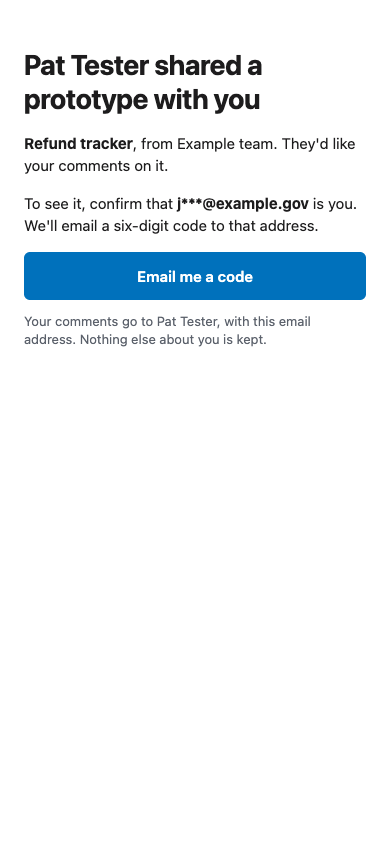
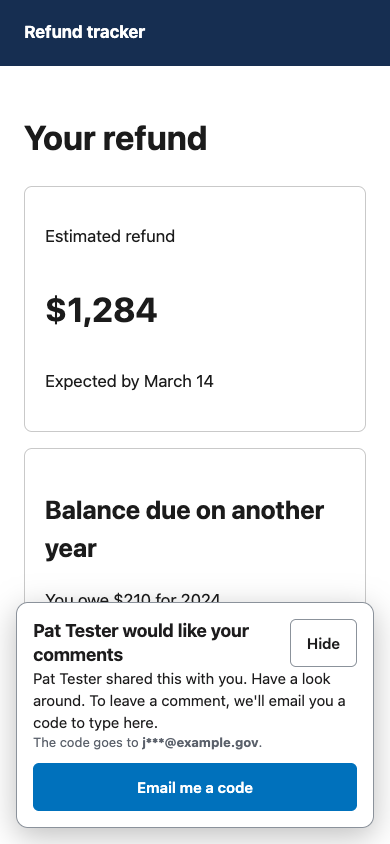
Review links open on the prototype at once; the code is for commenting and joining
No code wall. Opening a review link shows the prototype full screen straight
away; a box in the corner offers the emailed code, which turns on commenting
and, for someone an owner invited, offers Join <team> on the same page. The
invite is never in the message or the email, and joining after the code puts
the confirmed work email on the account without a second code.

diff --git a/app/src/components/PrototypeReviewSheet.tsx b/app/src/components/PrototypeReviewSheet.tsx
@@ -83,8 +83,8 @@ export function PrototypeReviewSheet({ account, chatId = "", projectId, title, o
         <ScrollView keyboardShouldPersistTaps="handled" contentContainerStyle={styles.content}>
           <Text accessibilityRole="header" style={styles.title}>{ofApp ? "Share with a reviewer" : "Share with a business owner"}</Text>
           <Text style={styles.body}>{ofApp
-            ? `They get a link to "${title}" by email. After confirming a code sent to that address, they can use the app in their browser, with its sample data, and right-click anywhere on it to leave a comment. Each comment comes back to this screen, for you to decide what to do with.`
-            : `They get a link to "${title}" by email. After confirming a code sent to that address, they can look at the prototype and right-click anywhere on it to leave a comment. Each comment comes to this chat, for you to decide what to do with.`}</Text>
+            ? `They get a link to "${title}" by email. It opens straight away in their browser, with the app's sample data. To leave a comment they confirm a code sent to that address, then right-click anywhere on it. Each comment comes back to this screen, for you to decide what to do with.`
+            : `They get a link to "${title}" by email. It opens straight away, full screen. To leave a comment they confirm a code sent to that address, then right-click anywhere on it. Each comment comes to this chat, for you to decide what to do with.`}</Text>
           <Text style={styles.label}>Their work email</Text>
           <TextInput testID="review-email" accessibilityLabel="Their work email" value={email} onChangeText={value => { setEmail(value); setError(null); }} editable={busy !== "send"}
             keyboardType="email-address" autoCapitalize="none" autoCorrect={false} autoComplete="email" maxLength={254} onSubmitEditing={() => void send()} returnKeyType="send"

diff --git a/docs/prototype-reviews.md b/docs/prototype-reviews.md
@@ -1,6 +1,6 @@
 # Sharing a prototype with a business owner
 
-Someone who builds a prototype in a Prototyping chat can send it to a business owner for comments. The business owner does not need the app or an account: a link arrives by email, they confirm a code sent to the same address, see the prototype full screen in their browser, and right-click the part they want to talk about.
+Someone who builds a prototype in a Prototyping chat can send it to a business owner for comments. The business owner does not need the app or an account: a link arrives by email, and opening it shows the prototype full screen in their browser straight away. To leave a comment they confirm a code sent to the same address, then right-click the part they want to talk about.
 
 Two people, two places. The person who built the prototype lives in its chat: they share it, preview it, edit it, work on it with the agent, and that is where every comment arrives, for them to decide what to do with. The business owner only ever sees the prototype and leaves comments on it. A comment is not filed anywhere else: it does not become a to-do.
 
@@ -25,9 +25,11 @@ It needs the server to have a public address (`publicUrl`) and a mailer (`emailV
 ## For the business owner
 
 1. The email says who shared what, with a link.
-2. The page shows who shared it and a masked address ("j***@example.gov") and offers to email a code. The code always goes to the address the prototype was shared with; the page never asks for one.
-3. With the code entered, the prototype fills the window, with nothing around it but a small bar at the bottom. **Right-click** anywhere (on a phone, press and hold) to open a box at that spot, write the comment and save it. A numbered pin stays where it was made; pressing a pin, or the count in the bar ("2 comments"), opens the list of their comments over the side of the prototype, and **Close** puts it away. **Comment on this page** in the bar does the same without a mouse, for the page as a whole.
+2. The link opens the prototype at once, filling the window. A box in the corner says who shared it and that a code, emailed to a masked address ("j***@example.gov"), lets them comment. The code always goes to the address the prototype was shared with; the page never asks for one. **Hide** puts the box away and a small button brings it back. A right-click before the code brings the box up rather than a comment.
+3. With the code entered, the box goes and a small bar appears at the bottom. **Right-click** anywhere (on a phone, press and hold) to open a box at that spot, write the comment and save it. A numbered pin stays where it was made; pressing a pin, or the count in the bar ("2 comments"), opens the list of their comments over the side of the prototype, and **Close** puts it away. **Comment on this page** in the bar does the same without a mouse, for the page as a whole.
 4. Coming back in the same browser tab needs no new code for twelve hours.
+
+When a server owner invited them onto the server along with the share ([access-tokens.md](access-tokens.md#a-message-to-copy-and-inviting-someone-onto-the-server)), the bar also has **Join <team>** once the code is confirmed. It is optional: the prototype is theirs to review either way.
 
 They see only their own comments, not other reviewers', and nothing else on the server. Under a comment that was handed to the agent the page says **Sent to the team's agent**; it does not say what came of it.
 
@@ -65,7 +67,7 @@ The alert to the sharer carries the prototype's title, the reviewer's address an
 
 ## Limits to know
 
-- **The review page is gated; the prototype's own address is not.** Prototypes have always been viewable by anyone who has their `/p/<folder>/` address, which is long and random and never listed. The review page does not show that address before the code is confirmed, but a business owner who has confirmed could copy it from their browser and pass it on. Treat a shared prototype as something its reviewers can show to others.
+- **Anyone with the link can see the prototype.** Opening the link shows it with no code (decided by the maintainer on 2026-11-20, so a reviewer is looking at the thing within a second of clicking). That matches how prototypes already were: each has always been viewable by anyone who has its `/p/<folder>/` address, which is long and random and never listed. So a forwarded invitation shows the prototype to whoever it was forwarded to. Treat a shared prototype as something its reviewers can show to others. What the code still protects is **speaking as the reviewer**: nobody can leave a comment under that address, see that person's comments, or join the server with their invite, without the code sent to it.
 - Confirming a code proves the visitor can read that inbox. It does not prove who they are beyond that.
 - Codes work for ten minutes and once; five wrong tries end a code; sends and wrong tries are limited per address, and requests per network address.
 - Comments are tied to a spot on the page as it was. If the prototype changes, a pin may no longer sit on the thing it was about; the words under the pointer are kept with the comment for that reason.

diff --git a/docs/access-tokens.md b/docs/access-tokens.md
@@ -41,7 +41,7 @@ Invoke-RestMethod "$Servant/me" -Headers $Headers
 | `GET /api/v1` | The guide. No token needed; it names nobody on the server. |
 | `GET /api/v1/me` | Who the token acts as. |
 | `GET /api/v1/prototypes?q=words` | Prototypes you can see: yours, ones shared with everyone, and all of them if you own the server. |
-| `POST /api/v1/prototypes/<id>/shares` | `{ "emails": [...] }` or `{ "people": [{ "name", "email" }] }`, one to ten: sends each the review link ([prototype-reviews.md](prototype-reviews.md)) and returns, for each, the `link` and a `message` to paste. With `"invite": true` (owners), also a `join` link. |
+| `POST /api/v1/prototypes/<id>/shares` | `{ "emails": [...] }` or `{ "people": [{ "name", "email" }] }`, one to ten: sends each the review link ([prototype-reviews.md](prototype-reviews.md)) and returns, for each, the `link` and a `message` to paste. With `"invite": true` (owners), the person can also join the team from the review page. |
 | `POST /api/v1/agent` | `{ "text": "…" }` starts a new private chat with your agent; add `"chatId"` to continue one of yours. Answers at once; the agent works in the background. |
 | `GET /api/v1/agent/<chatId>` | Whether the agent is still working, whether it is waiting for an approval, and the messages with its replies. |
 
@@ -53,9 +53,13 @@ A prototype is shared by the person who made it, or by a **server owner on their
 
 Each person the link was sent to comes back with the review `link` and a `message` ready to paste into a chat or an email of your own, beside the email Servant sent: "Hi Jo, I've shared the prototype "Refund tracker" with you for review: … It will ask you to confirm your email with a code…". A name, when given, is used to greet them there and in Servant's email; it is not kept. Both end with a footnote for someone who has never seen Servant: what it is, that reviewing needs no account or install, and, when they are invited too, what joining adds.
 
-The review link is returned only here, to the person who asked for it; the app's own share sheet never shows it. It opens nothing by itself: the prototype still needs a code confirmed from the address it was shared with.
+The review link is returned only here, to the person who asked for it; the app's own share sheet never shows it. It shows the prototype to whoever opens it, as a prototype's own address always has; commenting as that person, and joining with their invite, still need the code sent to the address it was shared with.
 
-With `"invite": true`, a **server owner** also invites each person onto the server in the same request, for someone who has no account and may want more than the full-screen prototype. Names are required. Each gets a single-use invite in their name, good for a week, that starts them as a member at the **Business owner** access level, with the owner who invited them deciding their entitlement requests. The `join` link is in the result, in the message and in Servant's email. No invite is made for an address a prototype can't be shared with, or for someone who is already a member (`alreadyMember`). Unlike the review link, **whoever has a join link can use it once**: send it only to the person it is for.
+With `"invite": true`, a **server owner** also invites each person onto the server in the same request, for someone who has no account and may want more than the full-screen prototype. Names are required.
+
+It is still **one link**, and it opens on the prototype straight away. A box in the corner says they are invited: when they type the code emailed to them, right there, they can comment, and the page offers **Join <team>** for anyone who wants to go further. Because they already confirmed the address, joining puts that work email on their account without asking for a second code. The invite is single use, in their name, good for a week, and starts them as a member at the **Business owner** access level, with the owner who invited them deciding their entitlement requests. The message and the email say the invitation is waiting on that page; neither carries a join link, and the result says only `invited: true`. So nobody can join with a forwarded message: the invite is shown only to someone who confirmed the address it was sent to.
+
+No invite is made for an address a prototype can't be shared with, or for someone who is already a member (`alreadyMember`). Once it is used or out of date, the page stops offering it and the prototype stays open to review.
 
 Bringing people onto a server is an owner's job in the app (Invite people), and it is here: anyone else's token is refused `invite`.
 
